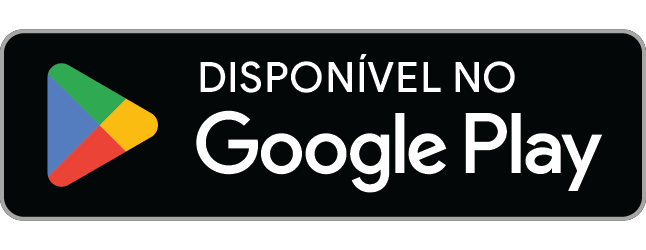
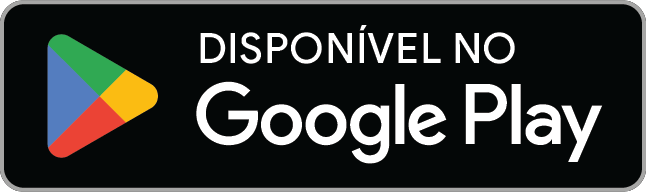
fix(site): igualar o tamanho dos dois selos de loja
O PNG da Play vem com 29px de transparência em cima e embaixo — a arte
ocupa 77% da altura do arquivo. O da Apple não vem com nenhuma. Igualados
pela altura no CSS, o selo da Play aparecia um terço menor que o da Apple.

O recorte é só na transparência, a arte não foi tocada. O respiro que
aquele vazio garantia agora vem do `gap` da linha, que já é a quarta parte
da altura do selo — o que a Google pede.

Os dois arquivos ficam com a mesma proporção (3,365 contra 3,373), então
agora saem com a mesma altura e a mesma largura, com 0,3px de diferença.

diff --git a/src/content/docs/comecar/instalar-no-celular.md b/src/content/docs/comecar/instalar-no-celular.md
@@ -8,7 +8,7 @@ print: mobile-dashboard
 O Monnif tem aplicativo para **Android** e para **iPhone**, grátis nas duas lojas, e uma **versão web** que abre em qualquer navegador — no celular e no computador. É a mesma conta e os mesmos dados nos três: o que você lança de um lado já está do outro.
 
 <div class="lojas">
-  <a href="https://play.google.com/store/apps/details?id=com.monnif.app" target="_blank" rel="noopener"><img src="/lojas/google-play.png" alt="Baixar o Monnif na Google Play" width="646" height="250" loading="lazy" decoding="async" /></a>
+  <a href="https://play.google.com/store/apps/details?id=com.monnif.app" target="_blank" rel="noopener"><img src="/lojas/google-play.png" alt="Baixar o Monnif na Google Play" width="646" height="192" loading="lazy" decoding="async" /></a>
   <a href="https://apps.apple.com/br/app/monnif-controle-financeiro/id6805985510" target="_blank" rel="noopener"><img src="/lojas/app-store.png" alt="Baixar o Monnif na App Store" width="860" height="255" loading="lazy" decoding="async" /></a>
 </div>
 
